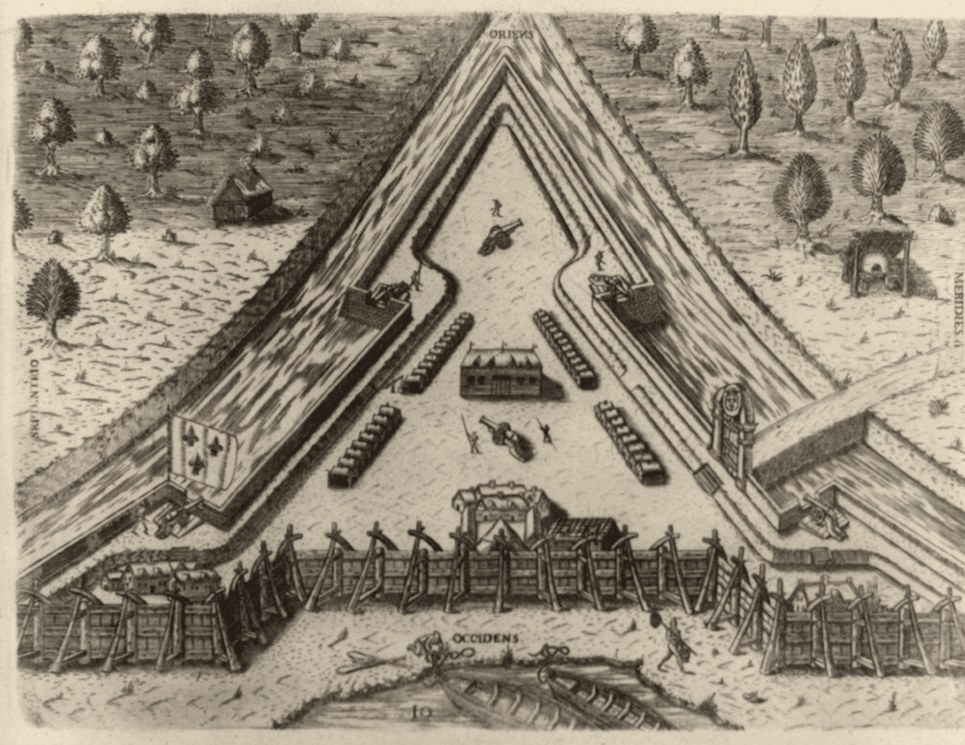
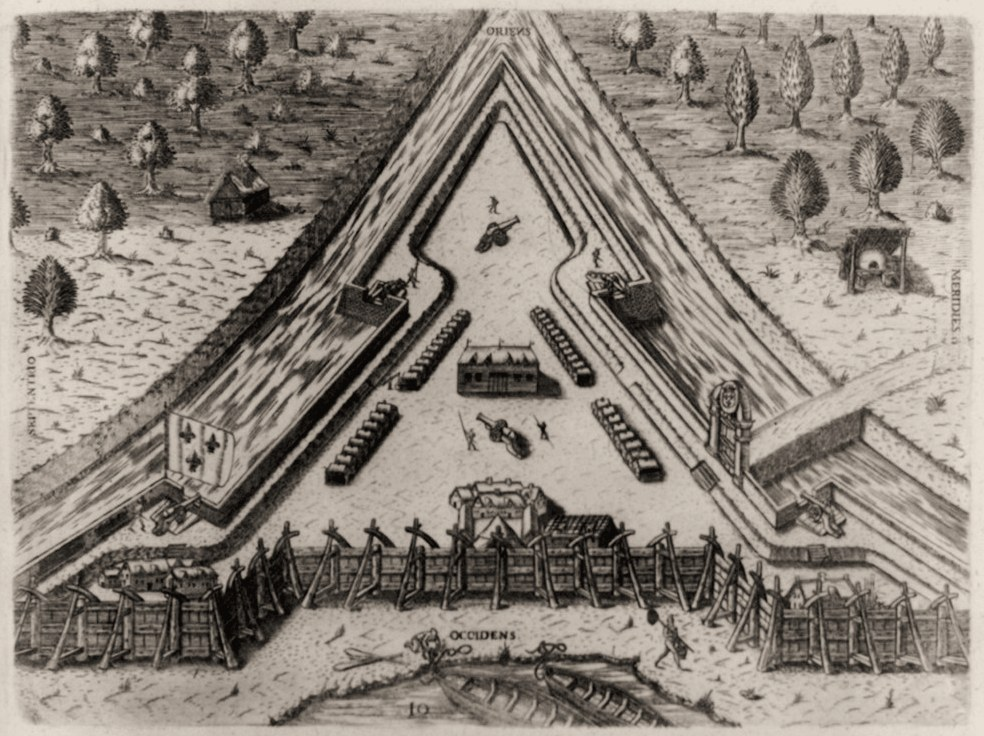
Add files via upload

diff --git a/chapter-3.html b/chapter-3.html
@@ -42,6 +42,8 @@ textarea:focus{outline:none;border-color:#efcf98 !important}
 .fn::after{content:'';position:absolute;left:-13px;right:-13px;top:-15px;bottom:-15px}
 ::selection{background:#efcf98;color:#16171a}
 ::highlight(lread){background-color:transparent;color:#ffdc8f;text-shadow:0 0 14px rgba(255,196,96,.9),0 0 4px rgba(255,196,96,.7)}
+.sp-yr{transition:box-shadow .25s ease,transform .25s ease}
+.sp-yr:hover,.sp-yr:focus-visible{box-shadow:0 0 0 1px rgba(239,207,152,.45),0 0 18px 2px rgba(239,207,152,.35);transform:translateY(-1px)}
 </style>
 </helmet>
 
@@ -204,11 +206,11 @@ textarea:focus{outline:none;border-color:#efcf98 !important}
           </sc-if>
 
           <sc-if value="{{ b.isSpainTl }}" hint-placeholder-val="{{ false }}">
-            <div style="margin:44px 0;background:rgba(255,255,255,.045);border:1px solid rgba(255,255,255,.12);border-radius:20px;backdrop-filter:blur(10px);padding:clamp(20px,3vw,32px);display:flex;flex-direction:column;gap:24px">
+            <div style="margin:44px 0;background:rgba(255,255,255,.045);border:1px solid rgba(239,207,152,.45);border-radius:20px;backdrop-filter:blur(10px);padding:clamp(20px,3vw,32px);display:flex;flex-direction:column;gap:24px">
               <div style="font-family:'Inter',sans-serif;font-size:11px;letter-spacing:.14em;text-transform:uppercase;color:#efcf98">Interactive · Spain in the borderlands, 1513–1680</div>
               <div style="display:flex;flex-wrap:wrap;gap:8px">
                 <sc-for list="{{ spTabs }}" as="st" hint-placeholder-count="3">
-                  <button type="button" onClick="{{ st.onClick }}" style="font-family:'Inter',sans-serif;font-size:12px;letter-spacing:.04em;padding:10px 14px;border-radius:999px;cursor:pointer;border:1px solid {{ st.border }};background:{{ st.bg }};color:{{ st.color }}">{{ st.label }}</button>
+                  <button type="button" class="sp-yr" onClick="{{ st.onClick }}" style="font-family:'Inter',sans-serif;font-size:12px;letter-spacing:.04em;padding:10px 14px;border-radius:999px;cursor:pointer;border:1px solid {{ st.border }};background:{{ st.bg }};color:{{ st.color }}">{{ st.label }}</button>
                 </sc-for>
               </div>
               <div style="border-top:1px solid #2c2f36;padding-top:20px;display:flex;flex-direction:column;gap:8px;max-width:640px">
@@ -672,7 +674,7 @@ class Component extends DCLogic {
     const tab = on => ({ bg: on ? G : 'transparent', color: on ? '#16171a' : '#c8c4bc', border: on ? G : '#3a3d44' });
     const img = (key, ratio, maxW, caption, credit) => ({ isImage: true, slot: 'c3-' + key, src: '' + key + '.jpg', ratio, maxW, caption, credit: credit ? 'Credit: ' + credit : '', hasCredit: !!credit });
     const F = {
-      fortcaroline: img('fort-caroline-1591', '965/745', '680px', 'Figure 3.1 · Fort Caroline, the Huguenot settlement built in 1564 on the St. Johns River in Timucua country, as engraved by Theodor de Bry after Jacques Le Moyne de Morgues, 1591.', 'Library of Congress, Rare Book and Special Collections Division, LC-USZ62-31868. No known restrictions on publication'),
+      fortcaroline: img('fort-caroline-1591', '984/736', '680px', 'Figure 3.1 · Fort Caroline, the Huguenot settlement built in 1564 on the St. Johns River in Timucua country, as engraved by Theodor de Bry after Jacques Le Moyne de Morgues, 1591.', 'Library of Congress, Rare Book and Special Collections Division, LC-USZ62-31868. No known restrictions on publication'),
       places: img('spanish-places', '1400/934', '820px', 'Figure 3.2 · Spanish expeditions into the borderlands: places named in Chapter 3', 'Figure by the author'),
       macana: img('virgin-of-the-macana', '1100/1356', '460px', 'Figure 3.3 · The Virgin of the Macana, unrecorded artist, New Spain, second half of the eighteenth century. Painted for Spanish viewers nearly a century after 1680, it shows the Pueblo revolt as an attack on Franciscans and on a statue of Mary that, the story held, survived a blow from a war club.', 'New Mexico History Museum, Santa Fe, History Collections, 2012.32.1'),
       champlain: img('champlain-1609', '1400/898', '820px', 'Figure 3.4 · Champlain’s own engraving of the July 1609 battle on the lake that now bears his name: the Huron, Algonquin, and Montagnais war party at left, the Mohawk line at its barricade at right, Champlain firing between them. From Les Voyages du sieur de Champlain, Paris, 1613.', 'Bibliothèque nationale de France, Gallica. Public domain'),
@@ -721,7 +723,7 @@ class Component extends DCLogic {
       ['1675', 'Governor Juan Francisco Treviño arrests forty-seven Pueblo religious leaders for sorcery and hangs three. Among those released is a man from Ohkay Owingeh named Popé.'],
       ['Aug. 10, 1680', 'The Pueblos rise a day early. They kill some four hundred colonists, among them twenty-one of the thirty-three Franciscans in New Mexico, lay siege to Santa Fe, and drive the survivors south to El Paso. Spain did not return for twelve years.']
     ];
-    const spTabs = spData.map((c, i) => ({ label: c[0], onClick: () => this.setState({ sp: i }), ...tab(i === s.sp) }));
+    const spTabs = spData.map((c, i) => ({ label: c[0], onClick: () => this.setState({ sp: i }), ...tab(i === s.sp), ...(i === s.sp ? {} : { border: 'rgba(239,207,152,.5)' }) }));
 
     const cyData = [
       ['Curiosities become equipment', 'Metal arrowheads and axes, farming tools, and copper kettles that cooked faster, traveled lighter, and outlasted clay. Equipment that good was worth restructuring a year around.'],
